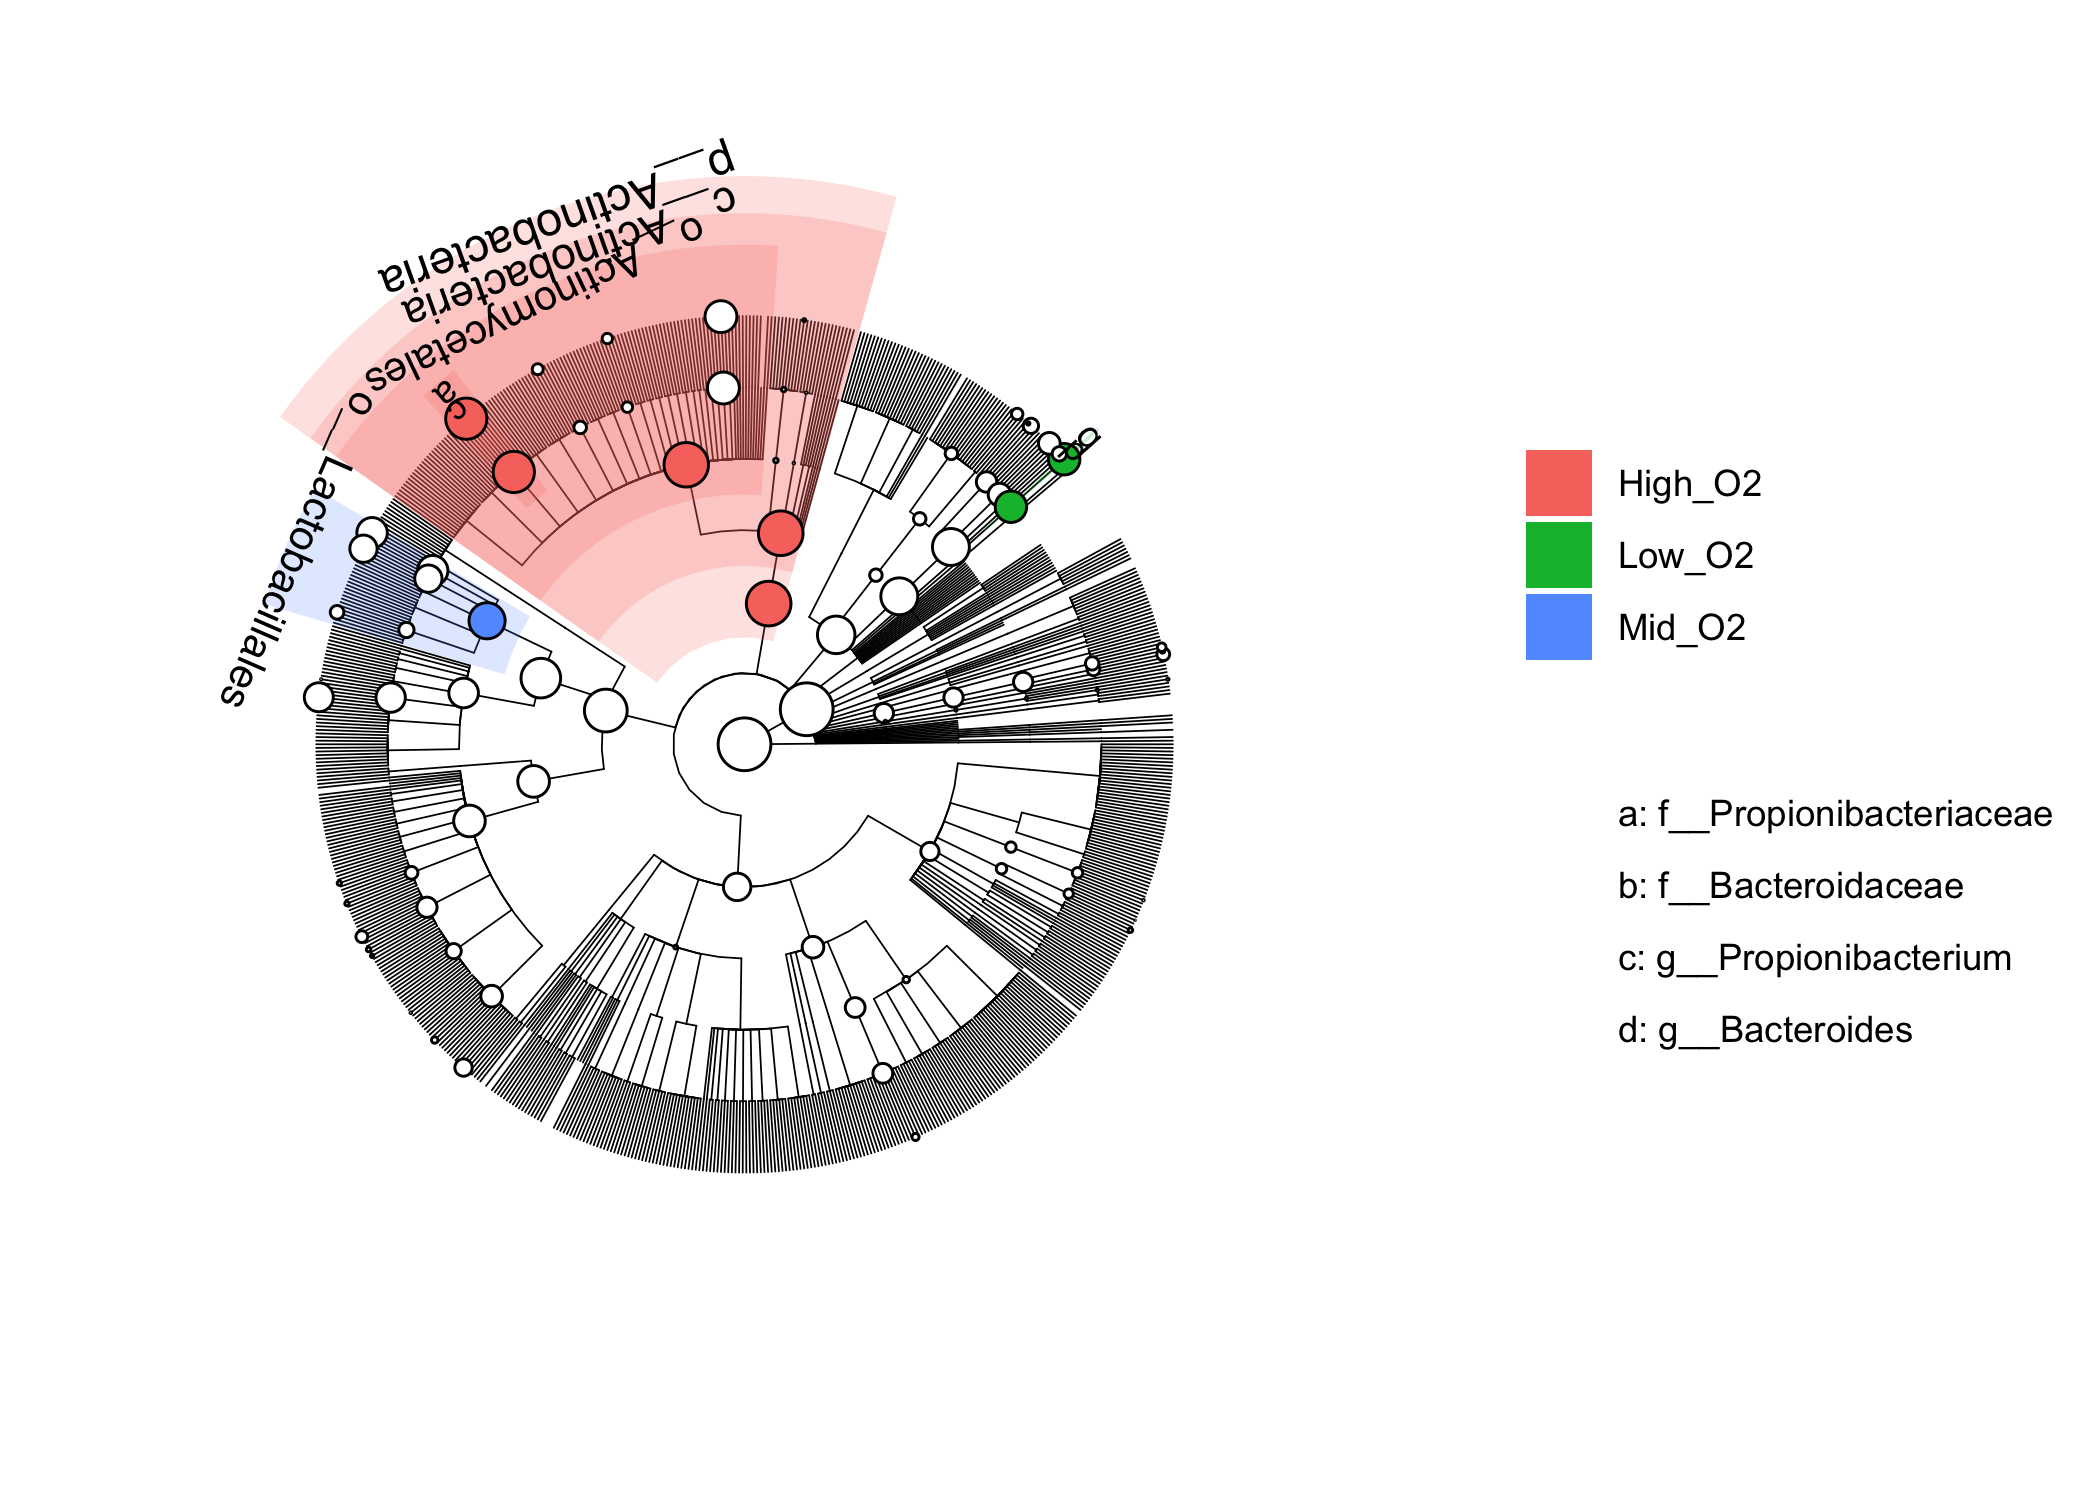
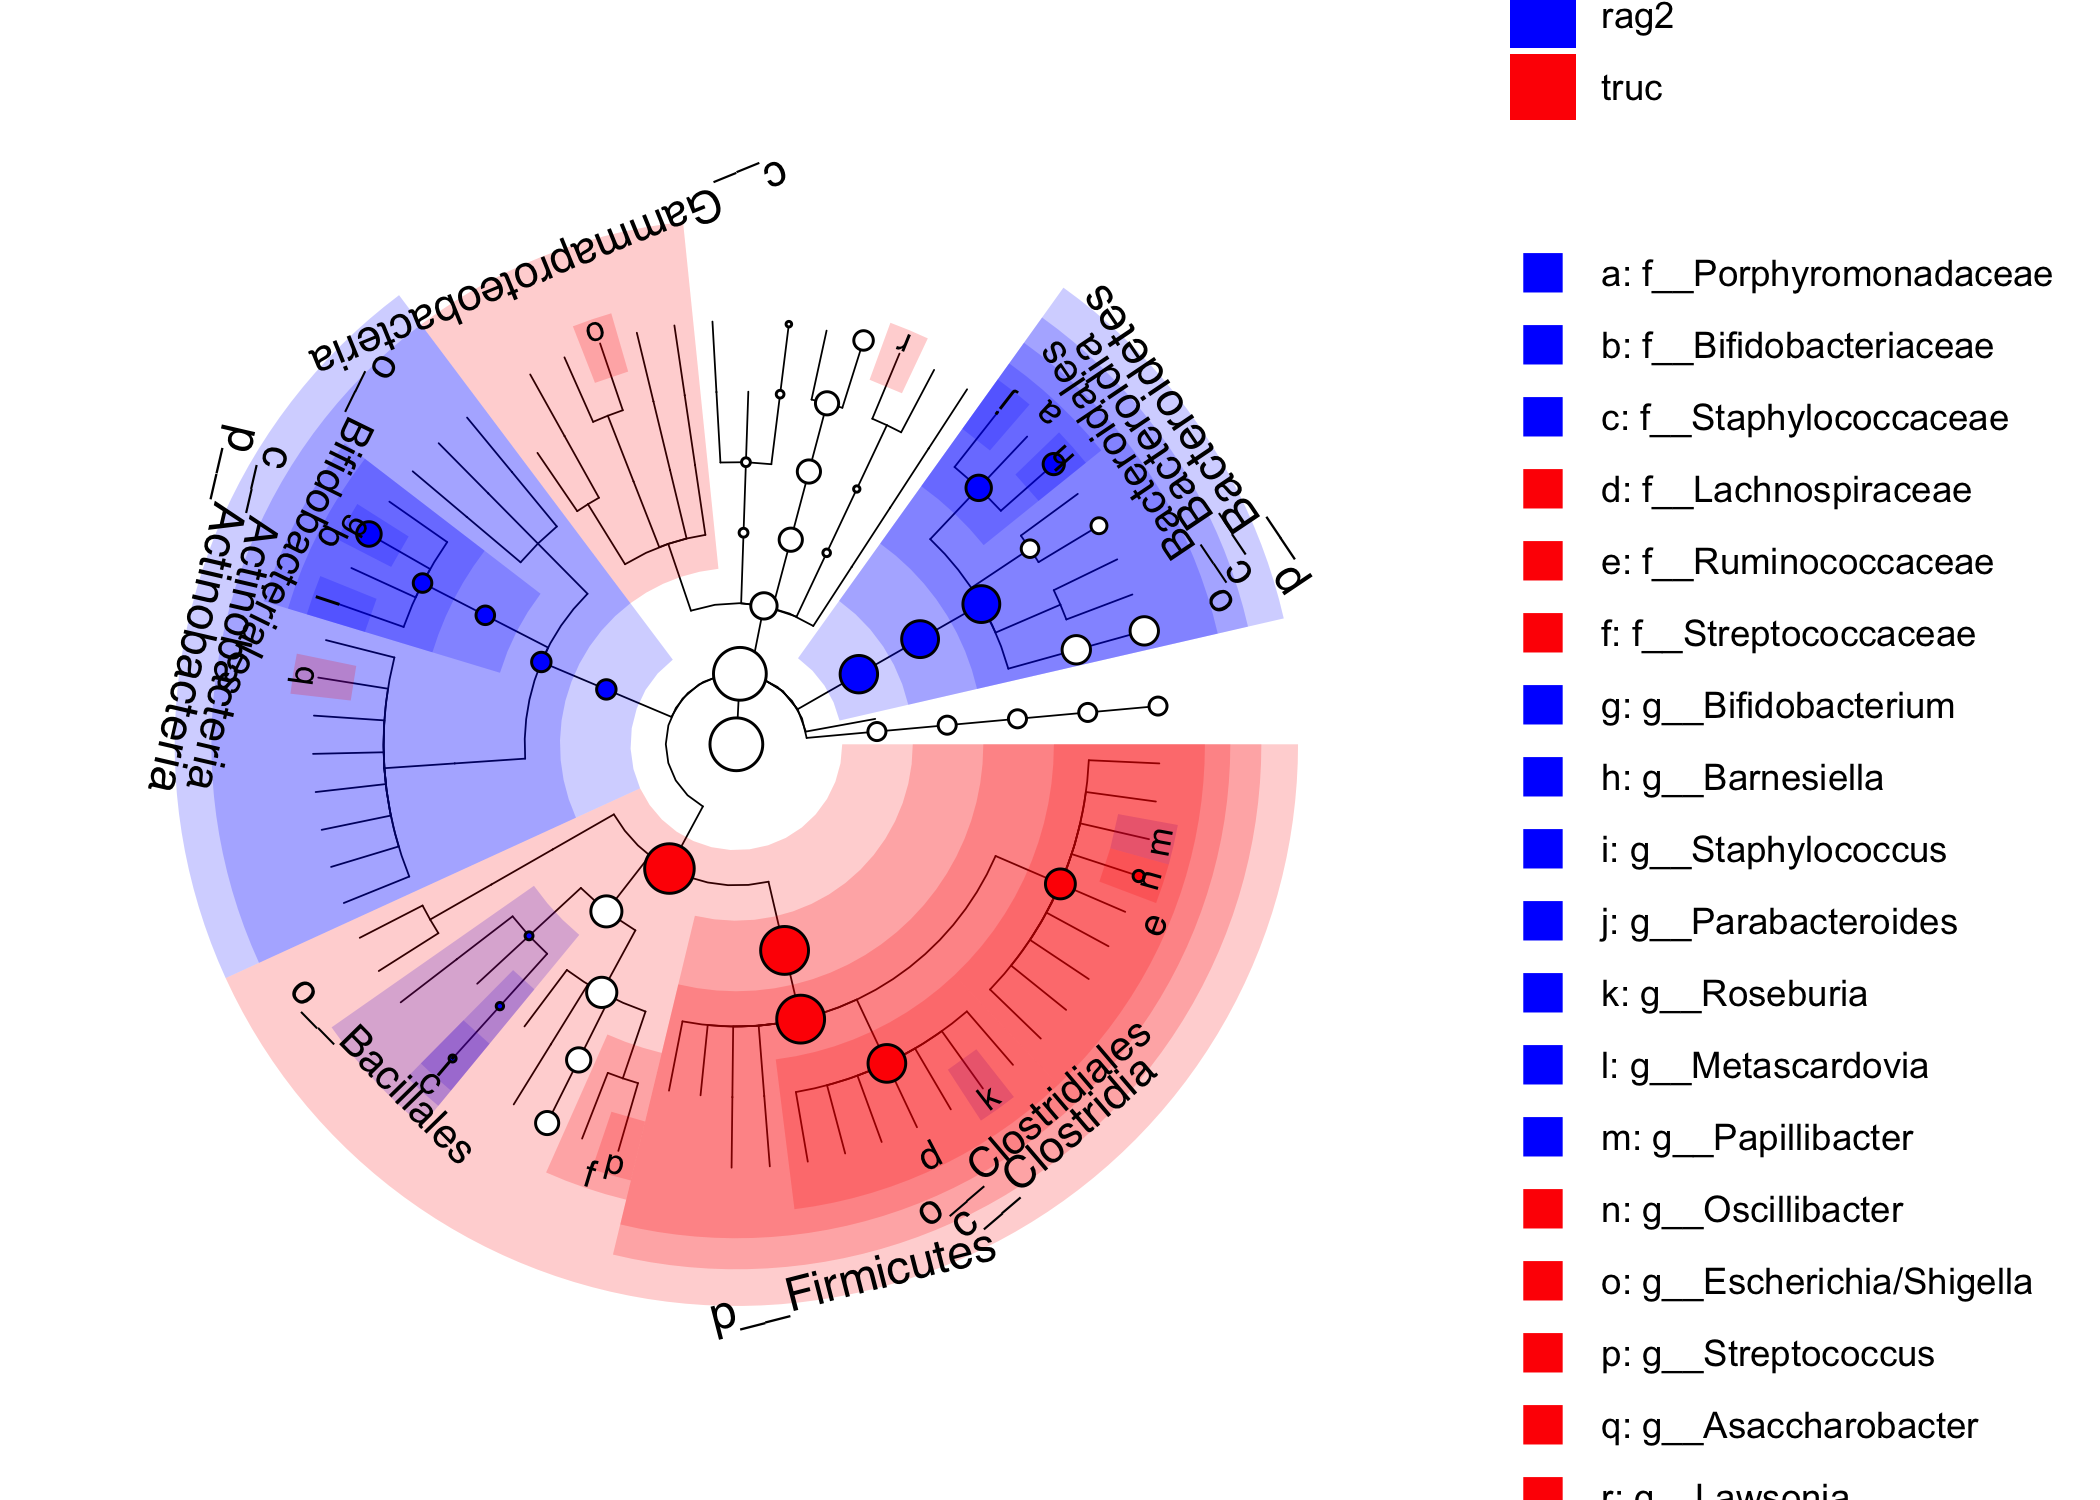
use sample data from lefse python script

diff --git a/README.md b/README.md
@@ -58,24 +58,26 @@ library(microbiomeMarker)
 #> Registered S3 method overwritten by 'treeio':
 #>   method     from
 #>   root.phylo ape
+library(ggplot2)
 
-# sample data
-data("oxygen")
+# sample data from lefse python script. The dataset contains 30 abundance 
+# profiles (obtained processing the 16S reads with RDP) belonging to 10 rag2 
+# (control) and 20 truc (case) mice
+data("spontaneous_colitis")
 lefse_out <- lefse(
-  oxygen, 
+  spontaneous_colitis, 
   normalization = 1e6, 
   summarize = "lefse", 
-  class = "oxygen_availability", 
-  subclass = "body_site", 
+  class = "class", 
   multicls_strat = TRUE
 )
 #> Warning: Setting row names on a tibble is deprecated.
 # lefse return a microbioMarker class inherits from phyloseq
 lefse_out
 #> microbiomeMarker-class inherited from phyloseq-class
-#> marker_table  Marker Table:      [ 8 microbiome markers with 5 variables ]
-#> otu_table()   OTU Table:         [ 1091 taxa and  55 samples ]
-#> tax_table()   Taxonomy Table:    [ 1091 taxa by 1 taxonomic ranks ]
+#> marker_table  Marker Table:      [ 29 microbiome markers with 5 variables ]
+#> otu_table()   OTU Table:         [ 132 taxa and  30 samples ]
+#> tax_table()   Taxonomy Table:    [ 132 taxa by 1 taxonomic ranks ]
 ```
 
 The microbiome biomarker information was stored in a new data structure
@@ -84,24 +86,66 @@ by using `marker_table()`.
 
 ``` r
 marker_table(lefse_out)
-#>                                                                                         feature
-#> 1                                                        Bacteria|Actinobacteria|Actinobacteria
-#> 2                                                                       Bacteria|Actinobacteria
-#> 3                                        Bacteria|Actinobacteria|Actinobacteria|Actinomycetales
-#> 4                   Bacteria|Actinobacteria|Actinobacteria|Actinomycetales|Propionibacteriaceae
-#> 5 Bacteria|Actinobacteria|Actinobacteria|Actinomycetales|Propionibacteriaceae|Propionibacterium
-#> 6                               Bacteria|Bacteroidetes|Bacteroidia|Bacteroidales|Bacteroidaceae
-#> 7                   Bacteria|Bacteroidetes|Bacteroidia|Bacteroidales|Bacteroidaceae|Bacteroides
-#> 8                                                   Bacteria|Firmicutes|Bacilli|Lactobacillales
-#>   enrich_group log_max_mean      lda      p_value
-#> 1      High_O2     5.826868 5.656724 4.148229e-09
-#> 2      High_O2     5.826868 5.656724 4.148229e-09
-#> 3      High_O2     5.826094 5.656707 3.841252e-09
-#> 4      High_O2     5.697155 5.549470 9.483488e-10
-#> 5      High_O2     5.697009 5.548929 1.034228e-09
-#> 6       Low_O2     5.613862 5.432087 3.034294e-07
-#> 7       Low_O2     5.613862 5.432087 3.034294e-07
-#> 8       Mid_O2     5.655506 5.502668 5.889748e-08
+#>                                                                                                  feature
+#> 1                                                                                 Bacteria|Bacteroidetes
+#> 2                                                                     Bacteria|Bacteroidetes|Bacteroidia
+#> 3                                                       Bacteria|Bacteroidetes|Bacteroidia|Bacteroidales
+#> 4            Bacteria|Actinobacteria|Actinobacteria|Bifidobacteriales|Bifidobacteriaceae|Bifidobacterium
+#> 5                                    Bacteria|Bacteroidetes|Bacteroidia|Bacteroidales|Porphyromonadaceae
+#> 6                            Bacteria|Actinobacteria|Actinobacteria|Bifidobacteriales|Bifidobacteriaceae
+#> 7                                               Bacteria|Actinobacteria|Actinobacteria|Bifidobacteriales
+#> 8                                                                                Bacteria|Actinobacteria
+#> 9                                                                 Bacteria|Actinobacteria|Actinobacteria
+#> 10                       Bacteria|Bacteroidetes|Bacteroidia|Bacteroidales|Porphyromonadaceae|Barnesiella
+#> 11                                                                Bacteria|Firmicutes|Bacilli|Bacillales
+#> 12                                              Bacteria|Firmicutes|Bacilli|Bacillales|Staphylococcaceae
+#> 13                               Bacteria|Firmicutes|Bacilli|Bacillales|Staphylococcaceae|Staphylococcus
+#> 14                   Bacteria|Bacteroidetes|Bacteroidia|Bacteroidales|Porphyromonadaceae|Parabacteroides
+#> 15                                Bacteria|Firmicutes|Clostridia|Clostridiales|Lachnospiraceae|Roseburia
+#> 16             Bacteria|Actinobacteria|Actinobacteria|Bifidobacteriales|Bifidobacteriaceae|Metascardovia
+#> 17                            Bacteria|Firmicutes|Clostridia|Clostridiales|Ruminococcaceae|Papillibacter
+#> 18                                                          Bacteria|Firmicutes|Clostridia|Clostridiales
+#> 19                                                                        Bacteria|Firmicutes|Clostridia
+#> 20                                                                                   Bacteria|Firmicutes
+#> 21                                          Bacteria|Firmicutes|Clostridia|Clostridiales|Lachnospiraceae
+#> 22                                          Bacteria|Firmicutes|Clostridia|Clostridiales|Ruminococcaceae
+#> 23                            Bacteria|Firmicutes|Clostridia|Clostridiales|Ruminococcaceae|Oscillibacter
+#> 24                                                           Bacteria|Proteobacteria|Gammaproteobacteria
+#> 25 Bacteria|Proteobacteria|Gammaproteobacteria|Enterobacteriales|Enterobacteriaceae|Escherichia/Shigella
+#> 26                                          Bacteria|Firmicutes|Bacilli|Lactobacillales|Streptococcaceae
+#> 27                            Bacteria|Firmicutes|Bacilli|Lactobacillales|Streptococcaceae|Streptococcus
+#> 28             Bacteria|Actinobacteria|Actinobacteria|Coriobacteriales|Coriobacteriaceae|Asaccharobacter
+#> 29           Bacteria|Proteobacteria|Deltaproteobacteria|Desulfovibrionales|Desulfovibrionaceae|Lawsonia
+#>    enrich_group log_max_mean      lda      p_value
+#> 1          rag2     5.451241 5.178600 1.553428e-02
+#> 2          rag2     5.433686 5.178501 1.375221e-02
+#> 3          rag2     5.433686 5.178501 1.375221e-02
+#> 4          rag2     5.082944 5.044767 1.217981e-04
+#> 5          rag2     4.987349 4.886991 1.320110e-03
+#> 6          rag2     4.789752 4.750839 1.217981e-04
+#> 7          rag2     4.789752 4.750839 1.217981e-04
+#> 8          rag2     4.800377 4.743824 6.001591e-04
+#> 9          rag2     4.800377 4.743824 6.001591e-04
+#> 10         rag2     4.761159 4.645092 1.320110e-03
+#> 11         rag2     4.045278 3.839820 4.863507e-03
+#> 12         rag2     4.007237 3.788714 7.256517e-03
+#> 13         rag2     3.990162 3.770290 8.270483e-03
+#> 14         rag2     3.652599 3.454102 7.056806e-03
+#> 15         rag2     3.259877 3.225737 6.151322e-06
+#> 16         rag2     2.982350 2.884262 4.204414e-04
+#> 17         rag2     2.616605 2.571572 7.997905e-05
+#> 18         truc     5.826884 5.455265 5.098324e-04
+#> 19         truc     5.827542 5.453962 5.098324e-04
+#> 20         truc     5.893569 5.391350 3.659080e-04
+#> 21         truc     5.326873 4.943669 2.400614e-03
+#> 22         truc     4.945682 4.512788 3.688840e-03
+#> 23         truc     4.033392 3.639159 4.773320e-02
+#> 24         truc     3.273543 3.310445 4.368471e-02
+#> 25         truc     3.216059 3.259396 1.240061e-02
+#> 26         truc     3.354679 3.156800 6.378989e-03
+#> 27         truc     3.350311 3.149519 6.378989e-03
+#> 28         truc     3.103242 2.914455 3.430807e-02
+#> 29         truc     2.002354 2.021579 2.378651e-02
 ```
 
 ### Visualization of the result of lefse analysis
@@ -109,7 +153,8 @@ marker_table(lefse_out)
 Bar plot for output of lefse:
 
 ``` r
-lefse_barplot(lefse_out, label_level = 1)
+lefse_barplot(lefse_out, label_level = 1) +
+  scale_fill_manual(values = c("rag2" = "blue", "truc" = "red"))
 ```
 
 <img src="man/figures/README-lefse-barplot-1.png" width="100%" />
@@ -117,7 +162,7 @@ lefse_barplot(lefse_out, label_level = 1)
 Cladogram plot for output of lefse
 
 ``` r
-lefse_cladogram(lefse_out)
+lefse_cladogram(lefse_out, color = c("blue", "red"))
 ```
 
 <img src="man/figures/README-lefse-cladogram-1.png" width="100%" />
